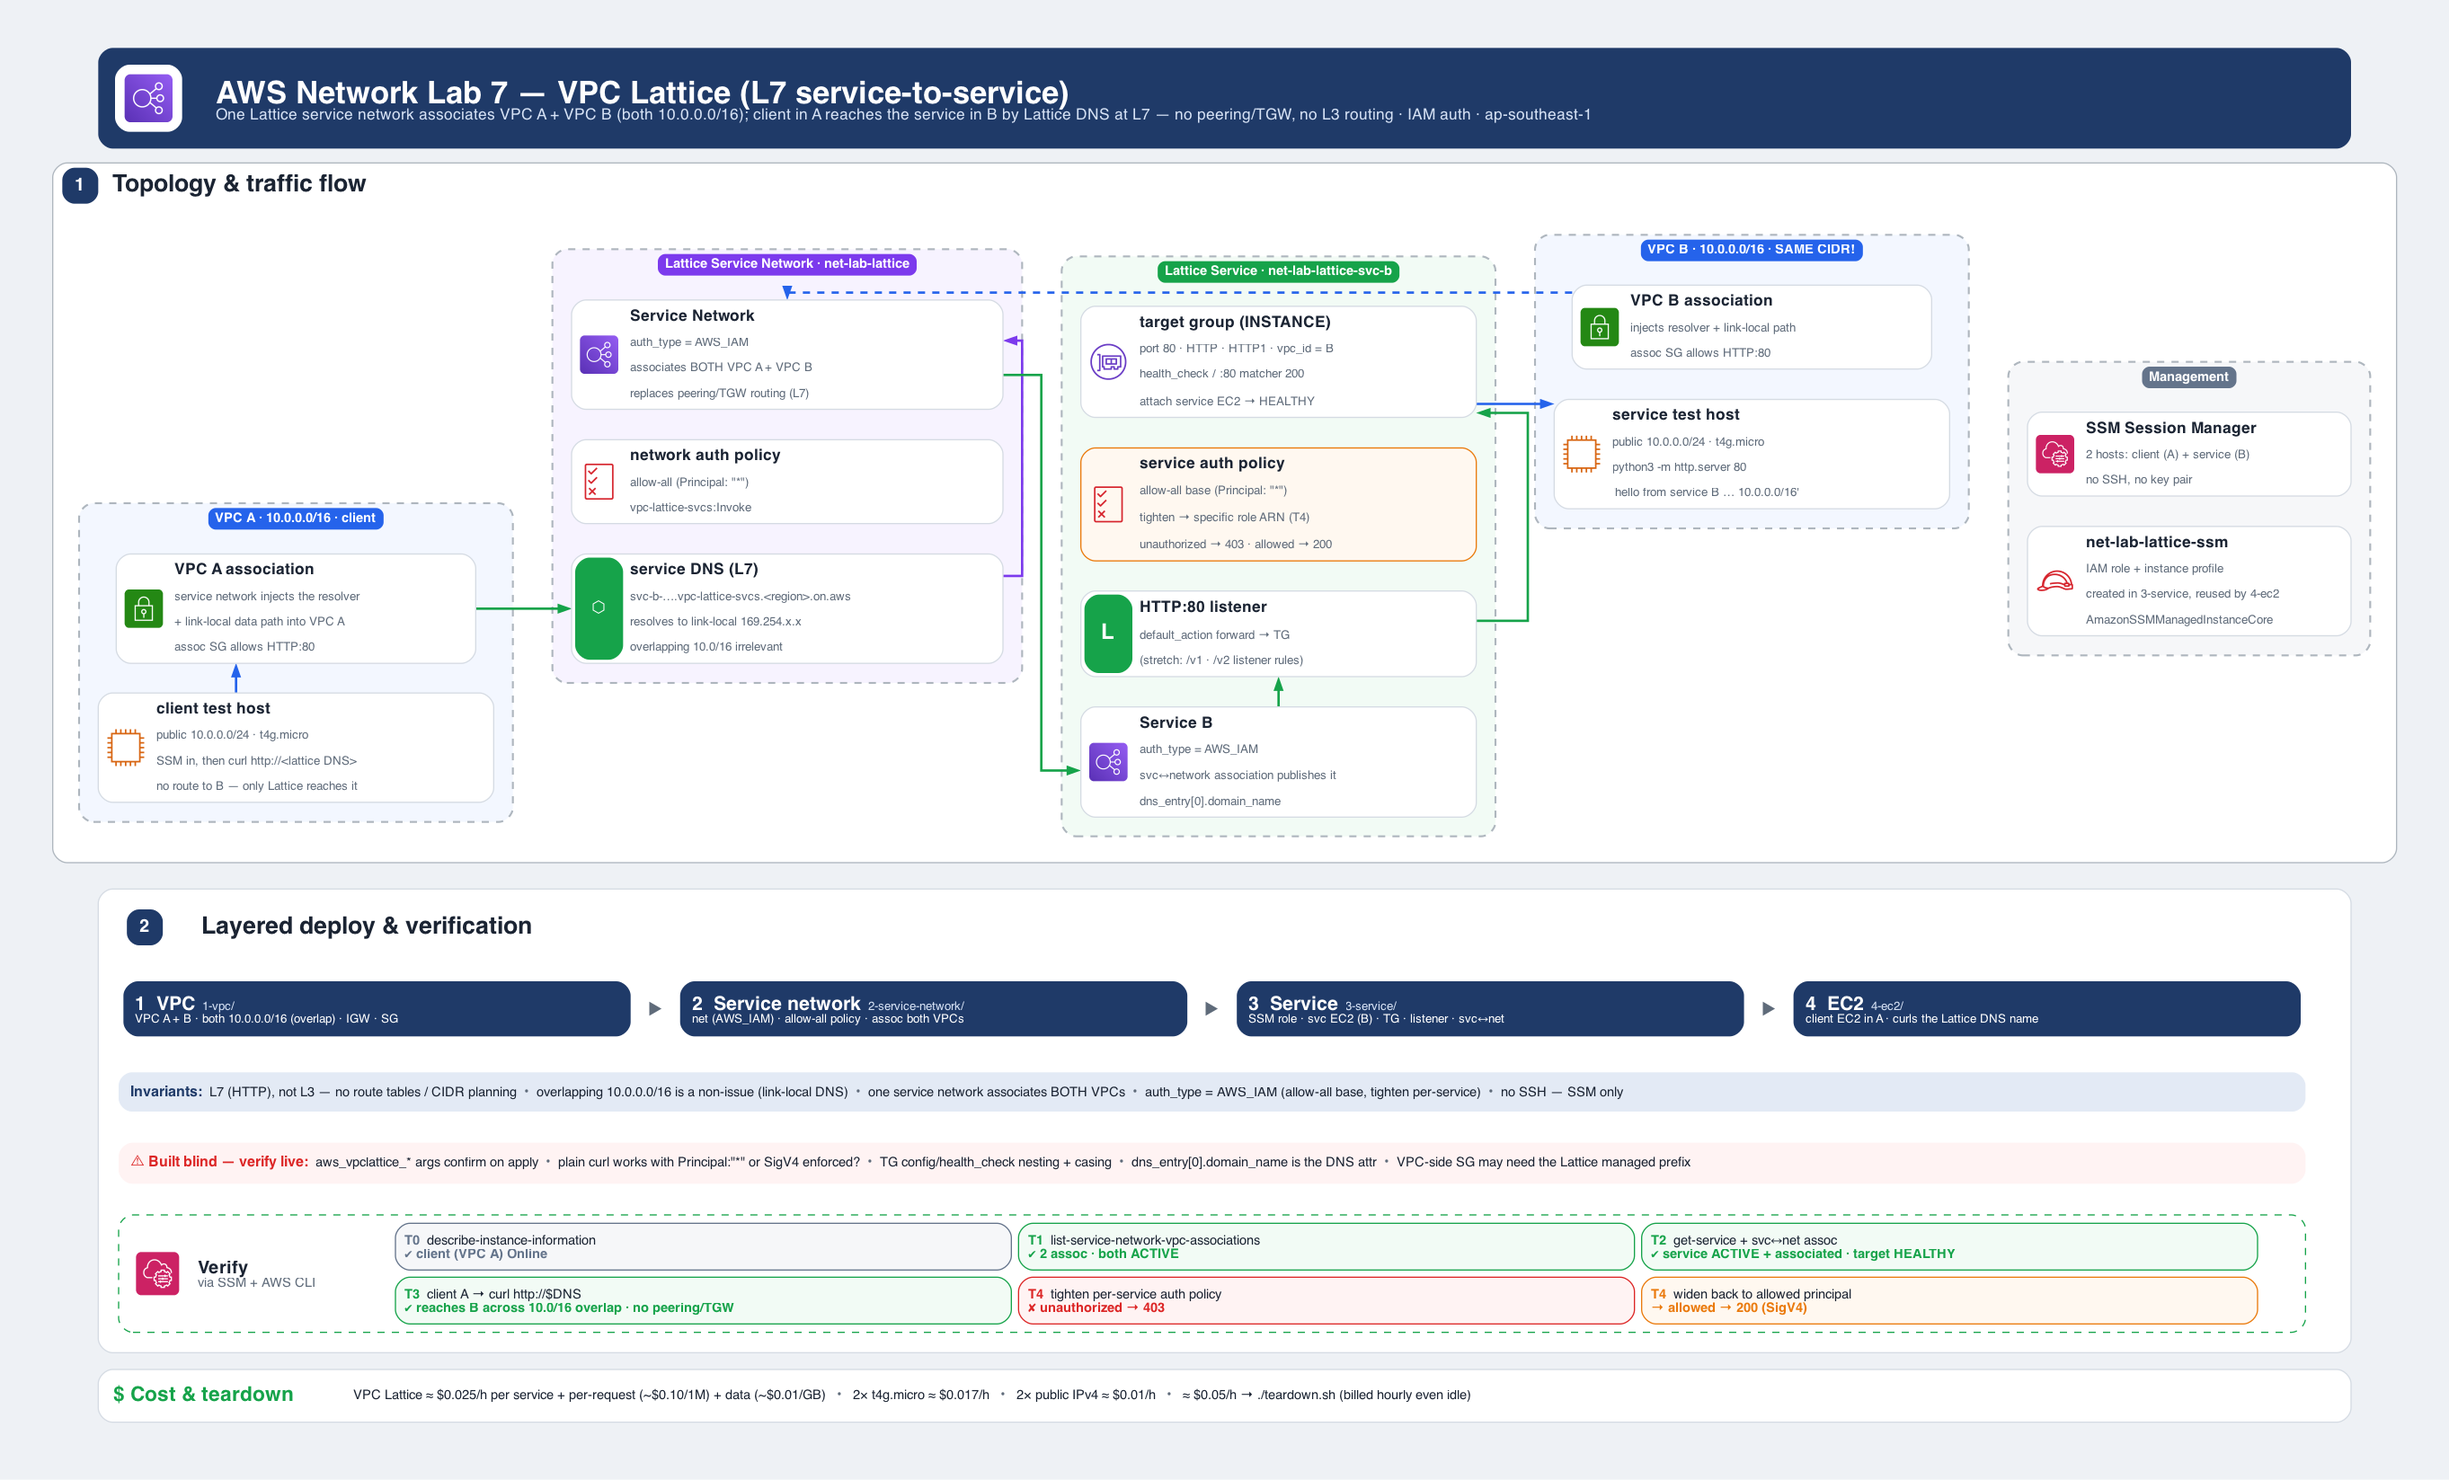
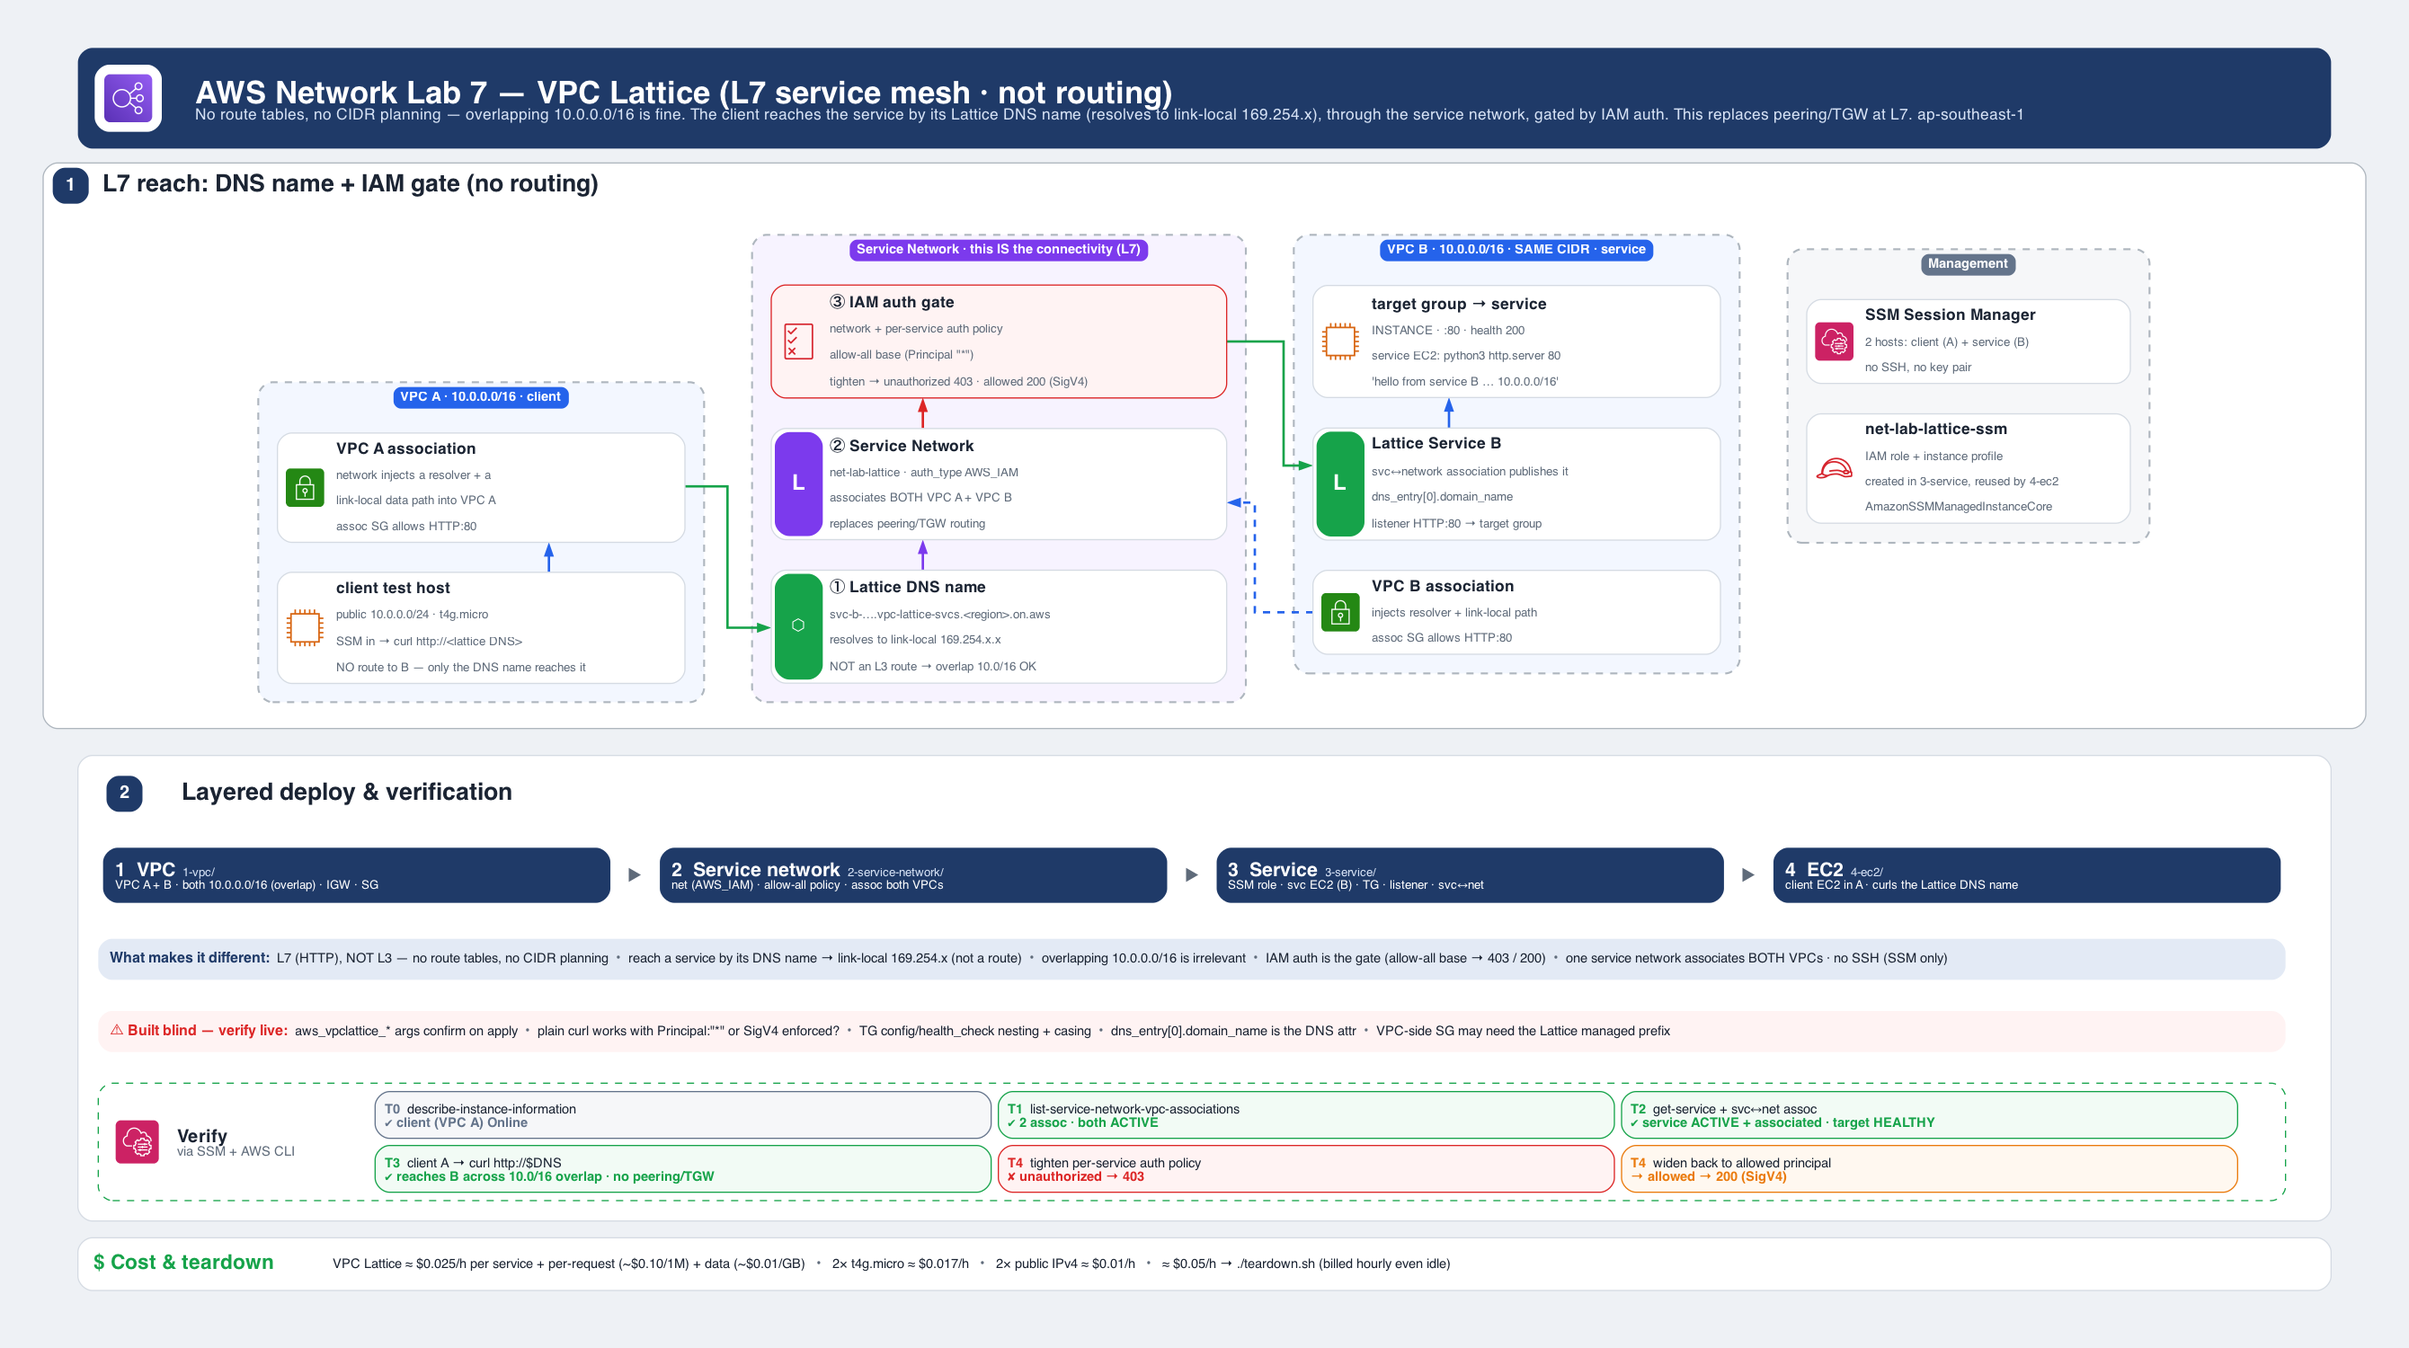
update

Changed region(s): [[0.031, 0.552, 0.9601, 0.9507], [0.031, 0.1533, 0.9291, 0.552], [0.0, 0.0307, 0.991, 0.1533]]

diff --git a/network/07-lattice/architecture.py b/network/07-lattice/architecture.py
@@ -191,9 +191,10 @@ def section2_html(steps, banners, checks):
 
 
 # ── content (from 1-vpc … 4-ec2 *.tf, 3-service/service.tf user_data and README.md) ─────────────
-HEADER = ("AWS Network Lab 7 — VPC Lattice (L7 service-to-service)",
-          "One Lattice service network associates VPC A + VPC B (both 10.0.0.0/16); client in A reaches the "
-          "service in B by Lattice DNS at L7 — no peering/TGW, no L3 routing · IAM auth · ap-southeast-1")
+HEADER = ("AWS Network Lab 7 — VPC Lattice (L7 service mesh · not routing)",
+          "No route tables, no CIDR planning — overlapping 10.0.0.0/16 is fine. The client reaches the "
+          "service by its Lattice DNS name (resolves to link-local 169.254.x), through the service network, "
+          "gated by IAM auth. This replaces peering/TGW at L7. ap-southeast-1")
 
 STEPS = [  # (name, folder, builds, role)
     ("VPC", "1-vpc/", "VPC A + B · both 10.0.0.0/16 (overlap) · IGW · SG", "main"),
@@ -202,12 +203,12 @@ STEPS = [  # (name, folder, builds, role)
     ("EC2", "4-ec2/", "client EC2 in A · curls the Lattice DNS name", "main"),
 ]
 BANNERS = [
-    ("Invariants:", [
-        "L7 (HTTP), not L3 — no route tables / CIDR planning",
-        "overlapping 10.0.0.0/16 is a non-issue (link-local DNS)",
-        "one service network associates BOTH VPCs",
-        "auth_type = AWS_IAM (allow-all base, tighten per-service)",
-        "no SSH — SSM only",
+    ("What makes it different:", [
+        "L7 (HTTP), NOT L3 — no route tables, no CIDR planning",
+        "reach a service by its DNS name → link-local 169.254.x (not a route)",
+        "overlapping 10.0.0.0/16 is irrelevant",
+        "IAM auth is the gate (allow-all base → 403 / 200)",
+        "one service network associates BOTH VPCs · no SSH (SSM only)",
     ]),
     ("⚠ Built blind — verify live:", [
         "aws_vpclattice_* args confirm on apply",
@@ -236,73 +237,59 @@ FOOTER = ("Cost & teardown", [
 OUT = os.path.splitext(os.path.basename(__file__))[0]
 graph_attr = dict(
     rankdir="LR", splines="ortho", newrank="true", bgcolor=CANVAS, pad="0.5", nodesep="0.35",
-    ranksep="0.9", fontname=FONT, label=header_html(icon(ELB), *HEADER), labelloc="t",
+    ranksep="1.0", fontname=FONT, label=header_html(icon(ELB), *HEADER), labelloc="t",
     labeljust="c", compound="true", outputorder="edgesfirst",
 )
 
 with Diagram("", filename=OUT, outformat="png", show=False, direction="LR", graph_attr=graph_attr,
              node_attr=dict(fontname=FONT, fixedsize="false", width="0", height="0", style="", labelloc="c"),
              edge_attr=dict(fontname=FONT)):
-    # invisible wrapper: its bottom label carries every full-width row (section 2 + footer)
     with box("wrapper", dict(label=section2_html(STEPS, BANNERS, CHECKS), labelloc="b",
                              labeljust="c", pencolor="transparent", bgcolor="transparent", margin="0")):
-        with box("section1", dict(label=section_label(1, "Topology & traffic flow", W - 16),
+        with box("section1", dict(label=section_label(1, "L7 reach: DNS name + IAM gate (no routing)", W - 16),
                                   labelloc="t", labeljust="l", style="rounded", color="#D5DBE3",
                                   bgcolor=PANEL, margin="22")):
             # column 1 — VPC A (client)
             with group("VPC A · 10.0.0.0/16 · client", "main"):
                 client = node(card("client test host", ["public 10.0.0.0/24 · t4g.micro",
-                                                        "SSM in, then curl http://<lattice DNS>",
-                                                        "no route to B — only Lattice reaches it"], "main",
-                                   icon(EC2Instance), width=330))
-                a_assoc = node(card("VPC A association", ["service network injects the resolver",
-                                                          "+ link-local data path into VPC A",
+                                                        "SSM in → curl http://<lattice DNS>",
+                                                        "NO route to B — only the DNS name reaches it"], "main",
+                                   icon(EC2Instance), width=340))
+                a_assoc = node(card("VPC A association", ["network injects a resolver + a",
+                                                          "link-local data path into VPC A",
                                                           "assoc SG allows HTTP:80"], "main",
-                                    icon(PublicSubnet)))
+                                    icon(PublicSubnet), width=340))
 
-            # column 2 — the Lattice service network (the backplane)
-            with group("Lattice Service Network · net-lab-lattice", "hub"):
-                net = node(card("Service Network", ["auth_type = AWS_IAM",
-                                                    "associates BOTH VPC A + VPC B",
-                                                    "replaces peering/TGW routing (L7)"], "hub",
-                                icon(ELB), width=360))
-                net_policy = node(card("network auth policy", ["allow-all (Principal: \"*\")",
-                                                               "vpc-lattice-svcs:Invoke"], "hub",
-                                       icon(IAMPermissions), width=360))
-                dns = node(card("service DNS (L7)", [
+            # column 2 — the service network = the connectivity (DNS + IAM gate), the hero
+            with group("Service Network · this IS the connectivity (L7)", "hub"):
+                dns = node(card("① Lattice DNS name", [
                     "svc-b-….vpc-lattice-svcs.<region>.on.aws",
                     "resolves to link-local 169.254.x.x",
-                    "overlapping 10.0/16 irrelevant"], "shared", letter="⬡", width=360))
+                    "NOT an L3 route → overlap 10.0/16 OK"], "shared", letter="⬡", width=380))
+                net = node(card("② Service Network", ["net-lab-lattice · auth_type AWS_IAM",
+                                                      "associates BOTH VPC A + VPC B",
+                                                      "replaces peering/TGW routing"], "hub",
+                                letter="L", width=380))
+                gate = node(card("③ IAM auth gate", ["network + per-service auth policy",
+                                                     "allow-all base (Principal \"*\")",
+                                                     "tighten → unauthorized 403 · allowed 200 (SigV4)"], "deny",
+                                 icon(IAMPermissions), width=380))
 
-            # column 3 — the Lattice service (published to the network)
-            with group("Lattice Service · net-lab-lattice-svc-b", "shared"):
-                svc = node(card("Service B", ["auth_type = AWS_IAM",
-                                              "svc↔network association publishes it",
-                                              "dns_entry[0].domain_name"], "shared",
-                                icon(ELB), width=330))
-                svc_policy = node(card("service auth policy", ["allow-all base (Principal: \"*\")",
-                                                               "tighten → specific role ARN (T4)",
-                                                               "unauthorized → 403 · allowed → 200"], "opt",
-                                       icon(IAMPermissions), width=330))
-                listener = node(card("HTTP:80 listener", ["default_action forward → TG",
-                                                          "(stretch: /v1 · /v2 listener rules)"], "shared",
-                                     letter="L", width=330))
-                tg = node(card("target group (INSTANCE)", ["port 80 · HTTP · HTTP1 · vpc_id = B",
-                                                           "health_check / :80 matcher 200",
-                                                           "attach service EC2 → HEALTHY"], "shared",
-                                icon(VPCElasticNetworkInterface), width=330))
-
-            # column 4 — VPC B (service)
-            with group("VPC B · 10.0.0.0/16 · SAME CIDR!", "main"):
+            # column 3 — VPC B (the service, same CIDR)
+            with group("VPC B · 10.0.0.0/16 · SAME CIDR · service", "main"):
+                svc = node(card("Lattice Service B", ["svc↔network association publishes it",
+                                                      "dns_entry[0].domain_name",
+                                                      "listener HTTP:80 → target group"], "shared",
+                                letter="L", width=340))
+                tg = node(card("target group → service", ["INSTANCE · :80 · health 200",
+                                                          "service EC2: python3 http.server 80",
+                                                          "'hello from service B … 10.0.0.0/16'"], "main",
+                                icon(EC2Instance), width=340))
                 b_assoc = node(card("VPC B association", ["injects resolver + link-local path",
                                                           "assoc SG allows HTTP:80"], "main",
-                                    icon(PublicSubnet)))
-                service_ec2 = node(card("service test host", ["public 10.0.0.0/24 · t4g.micro",
-                                                              "python3 -m http.server 80",
-                                                              "'hello from service B … 10.0.0.0/16'"], "main",
-                                        icon(EC2Instance), width=330))
+                                    icon(PublicSubnet), width=340))
 
-            # column 5 — management
+            # column 4 — management
             with group("Management", "mgmt"):
                 ssm = node(card("SSM Session Manager", ["2 hosts: client (A) + service (B)",
                                                         "no SSH, no key pair"], "mgmt",
@@ -312,20 +299,17 @@ with Diagram("", filename=OUT, outformat="png", show=False, direction="LR", grap
                                                          "AmazonSSMManagedInstanceCore"], "mgmt",
                                  icon(IAMRole), width=270))
 
-            # data path: client (A) → Lattice DNS (link-local) → service network → service (B)
+            # data path: client → ① DNS (link-local) → ② network → ③ IAM gate → service B
             flow(client, a_assoc, "main")
             flow(a_assoc, dns, "shared")
             flow(dns, net, "hub")
-            flow(net, svc, "shared")
-            flow(svc, listener, "shared")
-            flow(listener, tg, "shared")
-            flow(tg, service_ec2, "main")
-            flow(b_assoc, net, "main", dashed=True)  # VPC B associated to the network
+            flow(net, gate, "deny")
+            flow(gate, svc, "shared")
+            flow(svc, tg, "main")
+            flow(b_assoc, net, "main", dashed=True)  # VPC B associated to the same network
 
-            service_ec2 >> Edge(style="invis") >> ssm  # keeps Management as the last column
-            # column ordering only: within a rank=same column (LR) a flat edge a → b puts b ABOVE a,
-            # so each list below is written top → bottom and wired in reverse.
-            for col in [[client, a_assoc], [net, net_policy, dns], [svc, svc_policy, listener, tg],
-                        [b_assoc, service_ec2], [ssm, role]]:
+            service_ec2_last = tg
+            service_ec2_last >> Edge(style="invis") >> ssm  # keeps Management last
+            for col in [[client, a_assoc], [dns, net, gate], [svc, tg, b_assoc], [ssm, role]]:
                 for upper, lower in zip(col, col[1:]):
                     lower >> Edge(style="invis") >> upper
